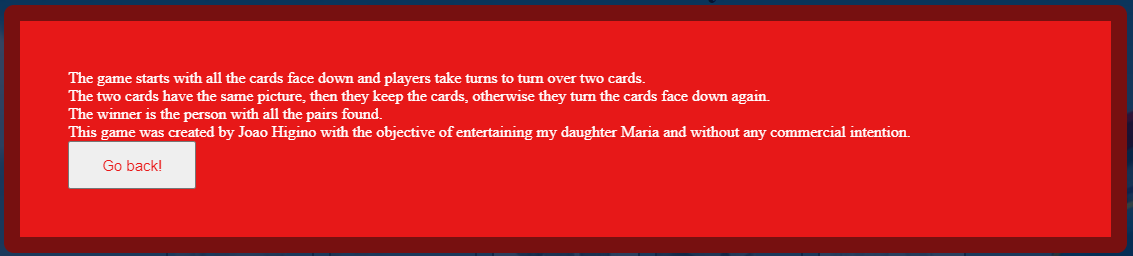
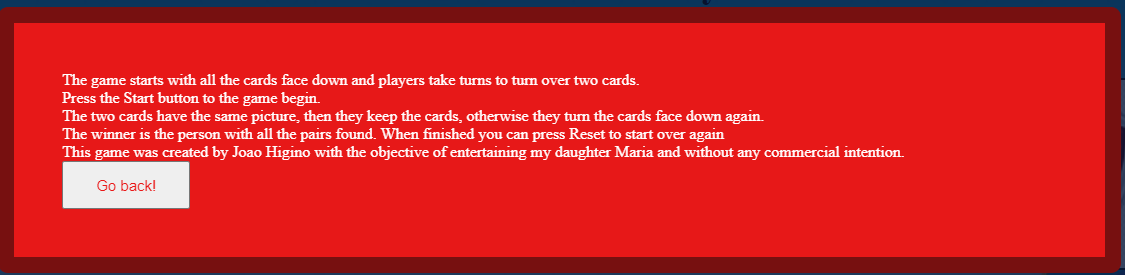
Write Readme file

Changed region(s): [[0.0, 0.0, 1.0, 1.0]]

diff --git a/assets/js/script.js b/assets/js/script.js
@@ -1,5 +1,4 @@
 const grid = document.querySelector('.grid');
-const spanPlayer = document.querySelector('.player');
 const timer = document.querySelector('.timer');
 
 // card characters

diff --git a/README.md b/README.md
@@ -8,29 +8,35 @@ A memory game also called concentration is a game in which all of the cards are 
 
 - __Header__
 
-  - Featured the game logo, game tittle, game timer, and the how-to-play and reset buttons. 
+  - Featured the game logo, game tittle, game timer, and the how-to-play and start/reset buttons. 
 
 ![header](./documents/header.png)
 
 
-- __How to Play button__
+ - __How to Play button__
 
   - When clicked will open a pop-up window with the rules. 
   
 
-![how to play](./documents/howtoplay.png)
+ ![how to play](./documents/howtoplay.png)
 
-- __How to Play pop-up__
+ - __How to Play pop-up__
 
   - When clicked How to play button will show up all the rules, how to win the game and the commercial intention.
 
-![rules](./documents/rules.png)
+ ![rules](./documents/rules.png)
+
+ - __Start button__
+
+  - When clicked the game starts.
+
+ ![start](./documents/start.png)
 
 - __Reset button__
 
   - This button will reset the game to and start it again.  
 
-![reset](./documents/reset.png)
+ ![reset](./documents/reset.png)
 
 
 ## Features Left to Implement
@@ -54,10 +60,6 @@ A memory game also called concentration is a game in which all of the cards are 
 
 ## Sources
 
-<!-- Should i write why?  -->
-
-- [How to randomize array](https://stackoverflow.com/questions/2450954/how-to-randomize-shuffle-a-javascript-array)
-
 - [Memory Card Game - JavaScript Tutorial](https://www.youtube.com/watch?v=ZniVgo8U7ek&t=1505s)
 
 - [Memory-game](https://marina-ferreira.github.io/projects/js/memory-game/)
@@ -67,6 +69,8 @@ A memory game also called concentration is a game in which all of the cards are 
 - [Sea Creature Memory Game](https://kaylaesmith1.github.io/sea-creature-memory-game/)
 
 - [Reset a Sketch with Button Click](https://www.youtube.com/watch?v=lm8Y8TD4CTM)
+
+- [How to randomize array](https://stackoverflow.com/questions/2450954/how-to-randomize-shuffle-a-javascript-array)
 
 - [Arrow Swipe Game with HTML, CSS and JavaScript](https://www.youtube.com/watch?v=1Au5rgP_V7E)
 
@@ -102,9 +106,9 @@ A memory game also called concentration is a game in which all of the cards are 
 
   ![iphone checker](./documents/iphone12.png)
    
-  - Motorola Edge 20 Lite
+  - Ipad Mini
 
-  ![moto checker](./documents/motoedge20lite.jpeg)
+  ![ipad checker](./documents/ipad.png)
    
   - Samsung Galaxy A13
 
@@ -112,11 +116,11 @@ A memory game also called concentration is a game in which all of the cards are 
    
   - One Plus 9
 
-  ![one plus checker](./documents/onePlus9.jpeg)
+  ![one plus checker](./documents/oneplus9.png)
    
   - Huawei Y5P
 
-  ![huawei checker](./documents/huaweiy5p.jpeg)
+  ![huawei checker](./documents/huawei.jpeg)
    
 
 
@@ -132,6 +136,19 @@ A memory game also called concentration is a game in which all of the cards are 
   - No errors were found when passing through the official
   ![w3c](./documents/w3c.png)
   
+- JavaScript
+
+  - No errors were found when passing through the official [JSHint](https://jshint.com/)
+   
+    -There are 17 functions in this file.
+   
+    -Function with the largest signature take 2 arguments, while the median is 0.
+   
+    -Largest function has 10 statements in it, while the median is 2.
+   
+    -The most complex function has a cyclomatic complexity value of 4 while the median is 1.
+
+
 - Lighhouse
 
   - The site scored well
@@ -139,9 +156,11 @@ A memory game also called concentration is a game in which all of the cards are 
   ![performance](./documents/performance.png)
 
 
+
+
 ## Unfixed Bugs
 
-Sometimes the cards mirror themselves.
+No bugs that i am aware off.
 
 ## Deployment
 
